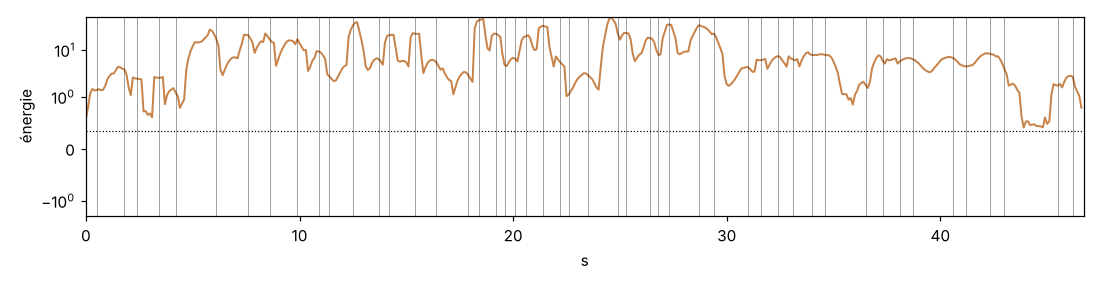
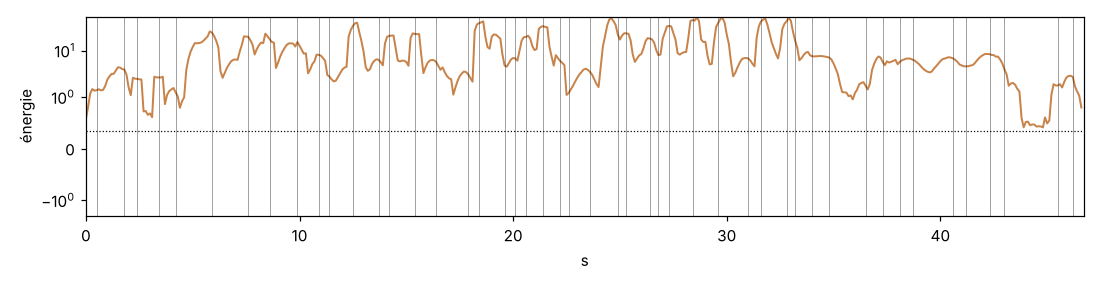
Red Bull t3 : rendu et controle OK, evaluation_3 à faire ; journal

diff --git a/journal.md b/journal.md
@@ -1,5 +1,10 @@
 # Journal de l'agent marketing Brooze
 
+## 02/11 (3 h 41) — filet, savoir, Red Bull tentative 3
+- Filet : stories 02→06/11 couvertes, aucune en erreur, réserve 7 (aucune utilisée).
+- Savoir : séance réduite (S-0016 : 12 principes d'animation, règles de praticiens ; 3 notions revues) ; fanpagekarma.com et creatorflow.so fermés, yt-dlp et vidIQ indisponibles pendant le setup.
+- Red Bull t3 : V2-5 (mur 28,5–33,5 s découpé en 5 plans, étiquette de prix sur « produit dérivé »), V2-7 (mention y=360), V2-1 (coupes_internes 6,033) ; rendu 46,8 s, controle.py 0 problème. comparer + evaluation_3 au prochain passage. Rien programmé.
+
 Le plus récent en haut. Une entrée par post, puis les chiffres à J+2.
 
 ---
